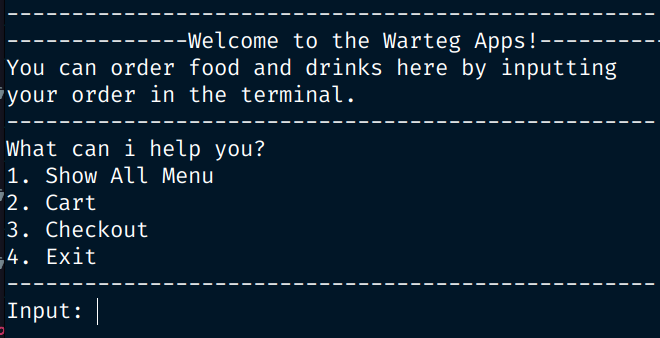
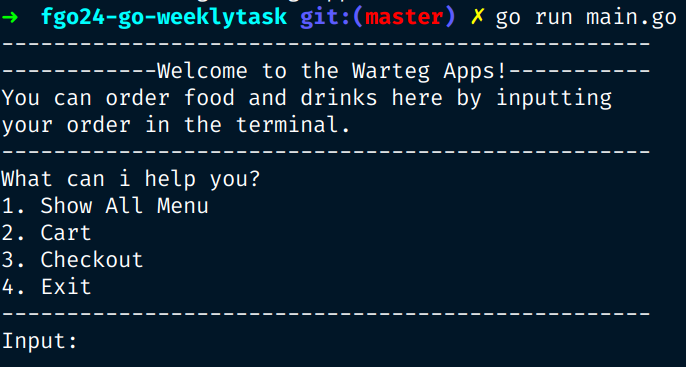
fix: image README.md

Changed region(s): [[0.0, 0.0, 1.0, 0.7988], [0.0, 0.8284, 1.0, 0.858], [0.0, 0.8876, 0.1212, 1.0]]

diff --git a/layout/welcome_layout.go b/layout/welcome_layout.go
@@ -5,9 +5,9 @@ import (
 )
 
 func WelcomeLayout() {
-	fmt.Print("\033[H\033[2J")
+	// fmt.Print("\033[H\033[2J")
 	fmt.Println("--------------------------------------------------")
-	fmt.Println("--------------Welcome to the Warteg Apps!--------------")
+	fmt.Println("------------Welcome to the Warteg Apps!-----------")
 	fmt.Println("You can order food and drinks here by inputting \nyour order in the terminal.")
 	fmt.Println("--------------------------------------------------")
 	
